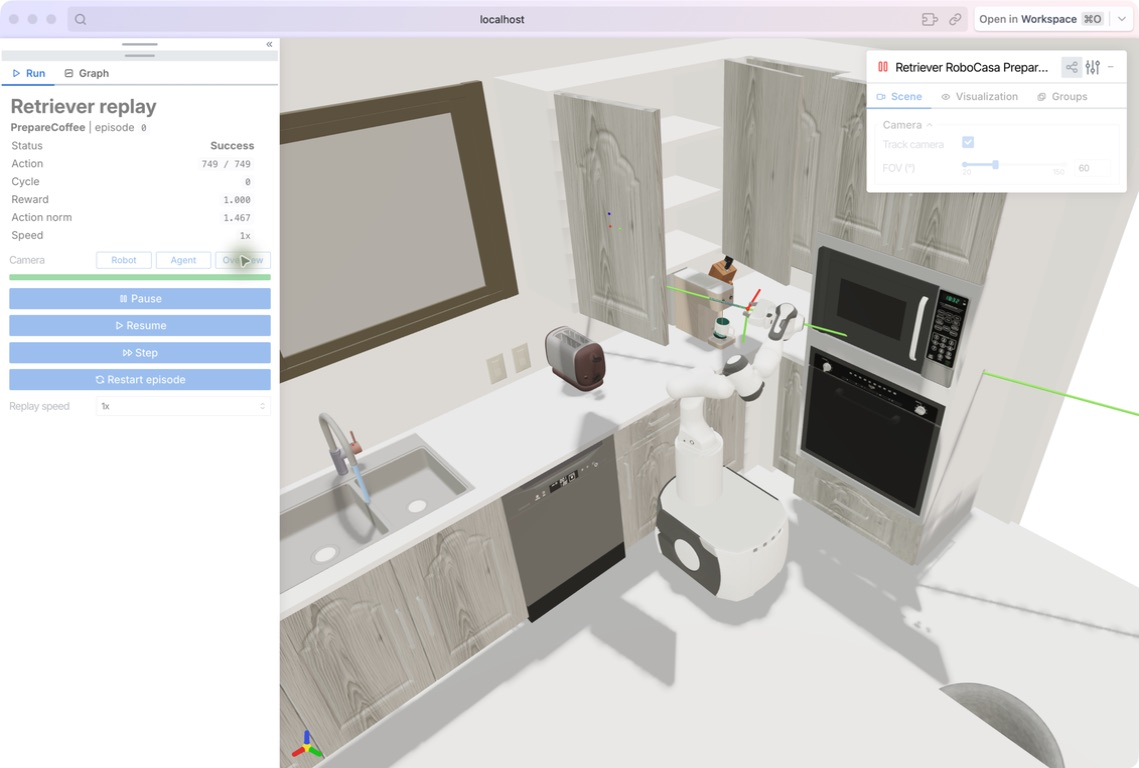
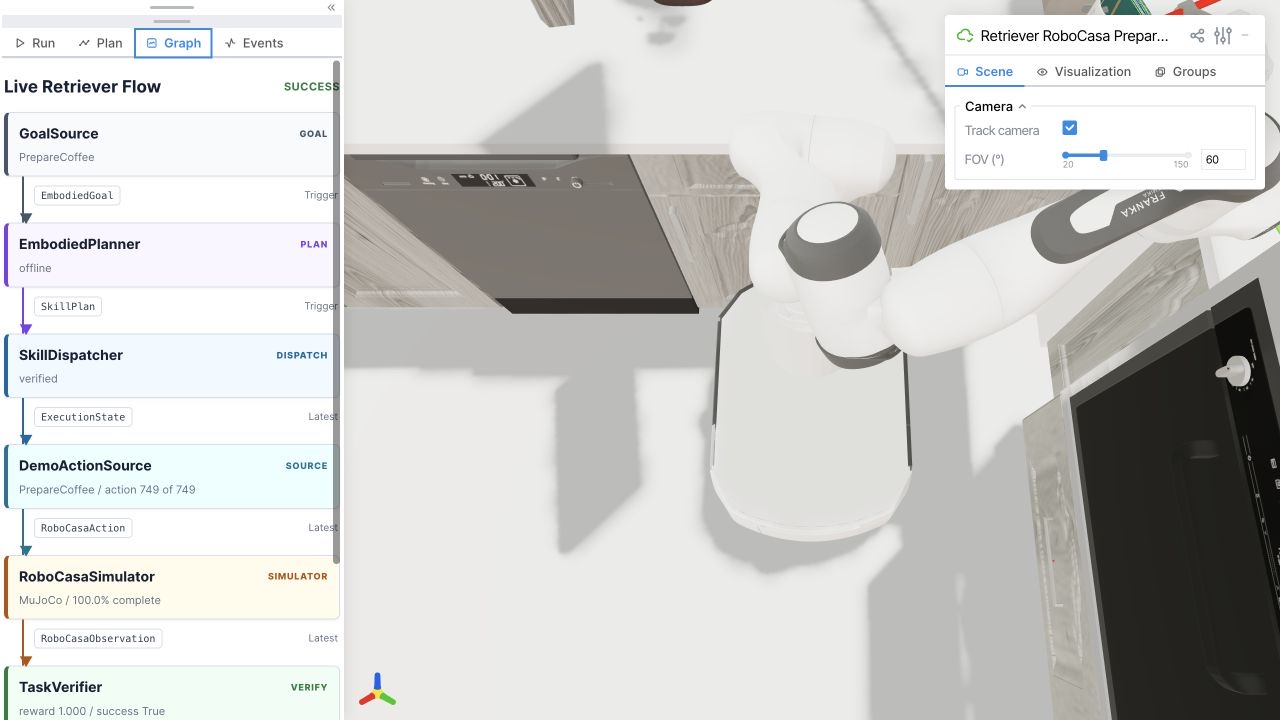
docs(simulation): document embodied demo console

diff --git a/examples/advanced/robocasa/README.md b/examples/advanced/robocasa/README.md
@@ -1,25 +1,34 @@
-# RoboCasa Demonstration Replay
+# Retriever Embodied Demo Console
 
-This example connects Retriever to an actual RoboCasa simulator. Recorded human
-actions are emitted by one `Flow`, consumed by a RoboCasa physics `Flow`, and
-published as typed observations for stdout or Rerun.
+This example connects Retriever to an actual RoboCasa simulator through an
+offline-first, inspectable execution path:
 
 ```text
-DemoActionSource @ 20 Hz
-          |
-        Latest
-          v
-RoboCasaSimulator @ 20 Hz ---> ObservationPrinter @ Trigger
-          |
-          +-- native MuJoCo viewer, or
-          +-- live browser scene through mjviser, or
-          +-- offscreen camera + telemetry in Rerun
+Goal -> Planner -> Skill plan -> Verified RoboCasa replay
 ```
 
-The layers have separate jobs: RoboCasa defines kitchen tasks and datasets;
-RoboSuite composes the robot, objects, arena, and controllers; MuJoCo advances
-physics; Retriever connects action and observation Flows; mjviser displays the
-live MuJoCo model and data in a browser. Rerun remains the better view for
+The default planner maps a supported goal to a validated task manifest without
+network access or credentials. Retriever then dispatches a known-good RoboCasa
+demonstration and reports progress, step results, reward, and task verification
+in the browser console.
+
+```text
+GoalSource -> EmbodiedPlanner -> SkillDispatcher -> DemoActionSource
+                                                        |
+                                                      Latest
+                                                        v
+                         EventSink <- TaskVerifier <- RoboCasaSimulator
+                                                        |
+                                                        +-- mjviser browser scene
+                                                        +-- native MuJoCo viewer
+                                                        +-- Rerun or MP4 capture
+```
+
+The ownership boundaries stay narrow: RoboCasa defines kitchen tasks,
+demonstrations, and success signals; RoboSuite composes the robot, objects,
+arena, and controllers; MuJoCo advances physics; Retriever owns goals, typed
+plans, dispatch, replay controls, events, and verification; mjviser renders the
+live `MjModel` and `MjData` in the browser. Rerun remains the better view for
 camera frames, Flow execution, scalar telemetry, and saved traces.
 
 ## 1. Mock-safe contract
@@ -99,8 +108,10 @@ Start the local scene launcher, then open `http://localhost:8084`:
 retriever run demo-robocasa-scenes
 ```
 
-The launcher discovers downloaded RoboCasa human demonstrations, so its scene
-list reflects what is runnable on the current machine. Choose a task and
+The launcher highlights the curated `PrepareCoffee`, `CoffeeSetupMug`,
+`StartCoffeeMachine`, and `TurnOnMicrowave` tasks, and also discovers other
+compatible installed human demonstrations. Missing datasets remain visible
+with an unavailable reason instead of failing during launch. Choose a task and
 episode, start it, then open the live viewer on `http://localhost:8085`.
 Starting another scene stops the current viewer first; each RoboCasa task owns
 a different environment, demonstration, and MuJoCo model.
@@ -110,6 +121,25 @@ the focused experiment console for replay controls, camera presets, and the
 live Retriever graph. At most one simulator child runs at a time.
 
 ## 5. Run a real replay directly
+
+The concise Python entry point uses the offline planner by default:
+
+```python
+from examples.advanced.robocasa.app import run
+
+run(
+    task="PrepareCoffee",
+    episode=0,
+    planner="offline",
+    visualize="mjviser",
+    open_browser=True,
+)
+```
+
+The replay remains deterministic and inspectable: the planner selects an
+allow-listed skill plan, the dispatcher advances phase markers such as locate,
+pick, place, activate, and verify, and RoboCasa supplies the final success
+signal. The existing replay command-line interface remains available.
 
 Headless physics, suitable for Linux workers:
 
@@ -147,21 +177,22 @@ simulator, not a separately stepped WebAssembly scene or an exported XML with
 default joint state. Install `mjviser` in the configured RoboCasa environment;
 the external simulator environment owns the tested MuJoCo compatibility override.
 
-The left **Retriever replay** panel controls the actual recorded-action Flow:
-pause or resume the replay, advance one action while paused, restart the
-episode, or slow execution for inspection. Its **Graph** tab renders a live
-HTML node-and-edge view of the
-`DemoActionSource -> RoboCasaSimulator -> ObservationPrinter` handoff. Restart
-resets MuJoCo in place and increments the displayed replay cycle. New browser
-clients open in the unobstructed agent-facing view; use the **Camera** control
-to switch to a tracked third-person robot view or overhead overview. mjviser's
-**Track camera** toggle changes between following the robot and a static world
-frame.
+The left Retriever console controls the actual recorded-action Flow. **Run**
+pauses, resumes, single-steps, restarts, and changes replay speed. **Plan**
+shows the ordered skill phases and their results. **Graph** renders the live
+seven-stage typed Flow from `GoalSource` through `EventSink`, and **Events**
+shows the compact execution and verification log. Restart resets MuJoCo in
+place and increments the displayed replay cycle. New browser clients open in
+the unobstructed agent-facing view; use the **Camera** control to switch to a
+tracked third-person robot view or overhead overview. mjviser's **Track
+camera** toggle changes between following the robot and a static world frame.
 
 Use `demo-robocasa-scenes` to switch between `PrepareCoffee`,
-`TurnOnMicrowave`, or another installed dataset. The viewer stays bound to one
-task because switching tasks replaces the RoboCasa environment, recorded
-actions, and MuJoCo model.
+`CoffeeSetupMug`, `StartCoffeeMachine`, `TurnOnMicrowave`, or another installed
+dataset. `CoffeeSetupMug` is the initial atomic pick-place example;
+`PrepareCoffee` is the composite example. The viewer stays bound to one task
+because switching tasks replaces the RoboCasa environment, recorded actions,
+and MuJoCo model.
 
 For a longer composite task, download one dataset and replay it through the
 same Flow:
@@ -223,6 +254,28 @@ combined with `--viewer` in the same process.
 This is a recorded-demonstration replay, not a learned policy benchmark. Its
 purpose is to make the simulator connection visible and reproducible first.
 
+## Optional Gemini planner
+
+Set `planner="gemini"` to use the optional Gemini embodied-reasoning planner.
+Its output is parsed as a structured `SkillPlan` and rejected unless every
+step uses the same allow-listed skills accepted by the offline planner. It
+cannot execute code or send arbitrary MuJoCo controls. If credentials or the
+optional client are unavailable, the console falls back to the offline plan.
+
+## Platform support
+
+- **macOS:** primary local path for interactive mjviser and native MuJoCo
+  inspection.
+- **Linux:** interactive or headless replay, including remote experiment
+  workers and saved Rerun artifacts.
+- **Windows:** supported through WSL2 where the Linux simulator and browser
+  networking requirements are available; native Windows is not a tested
+  target.
+
+The console has no ROS or Isaac Sim dependency. The referenced Isaac Sim
+Gemini Robotics project informed interaction patterns only; this implementation
+uses Retriever, RoboCasa, MuJoCo, and mjviser directly.
+
 ## Related building blocks
 
 - [`robosuite_lift.py`](robosuite_lift.py) provides the smaller closed-loop
@@ -248,3 +301,4 @@ purpose is to make the simulator connection visible and reproducible first.
 
 Future TAMP demos should replace `DemoActionSource` with planner and executor
 Flows while reusing `RoboCasaSimulator` and either visualization path.
+
